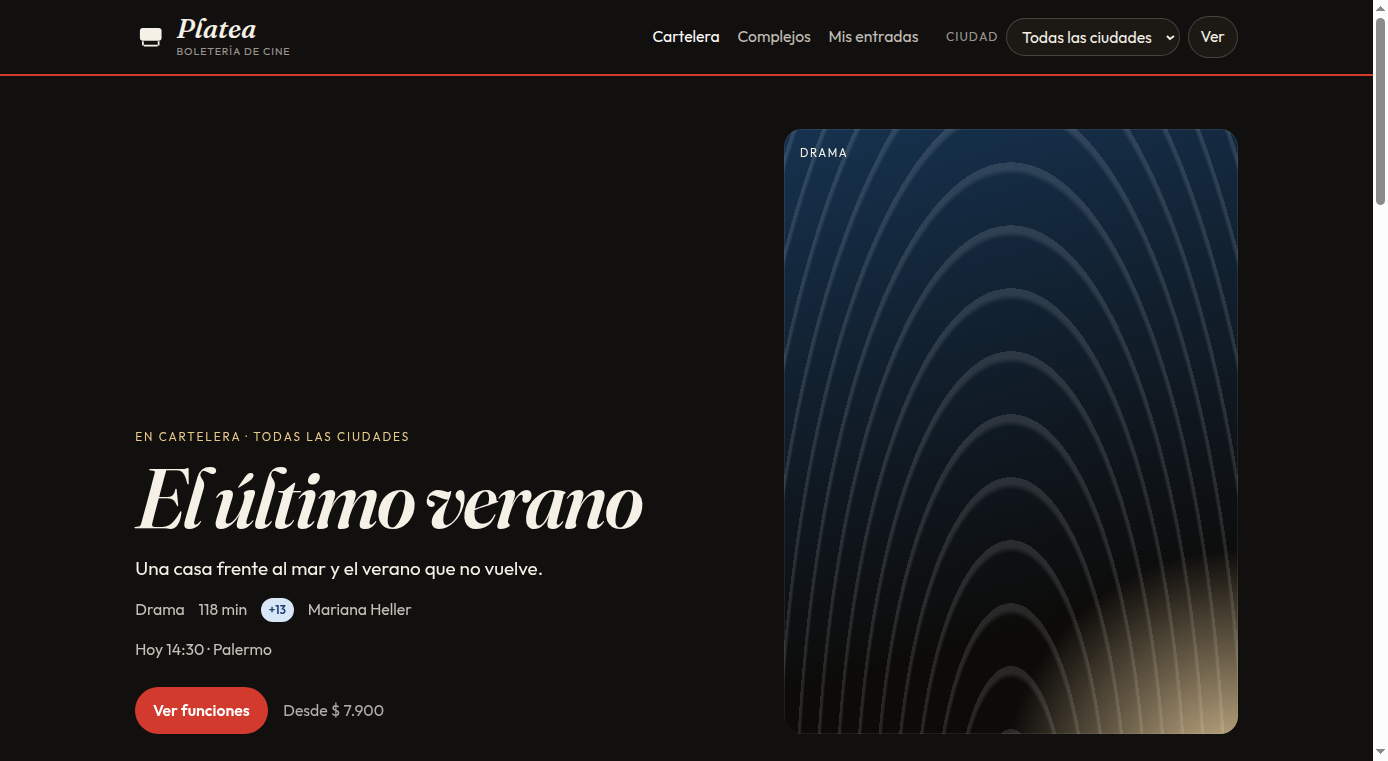
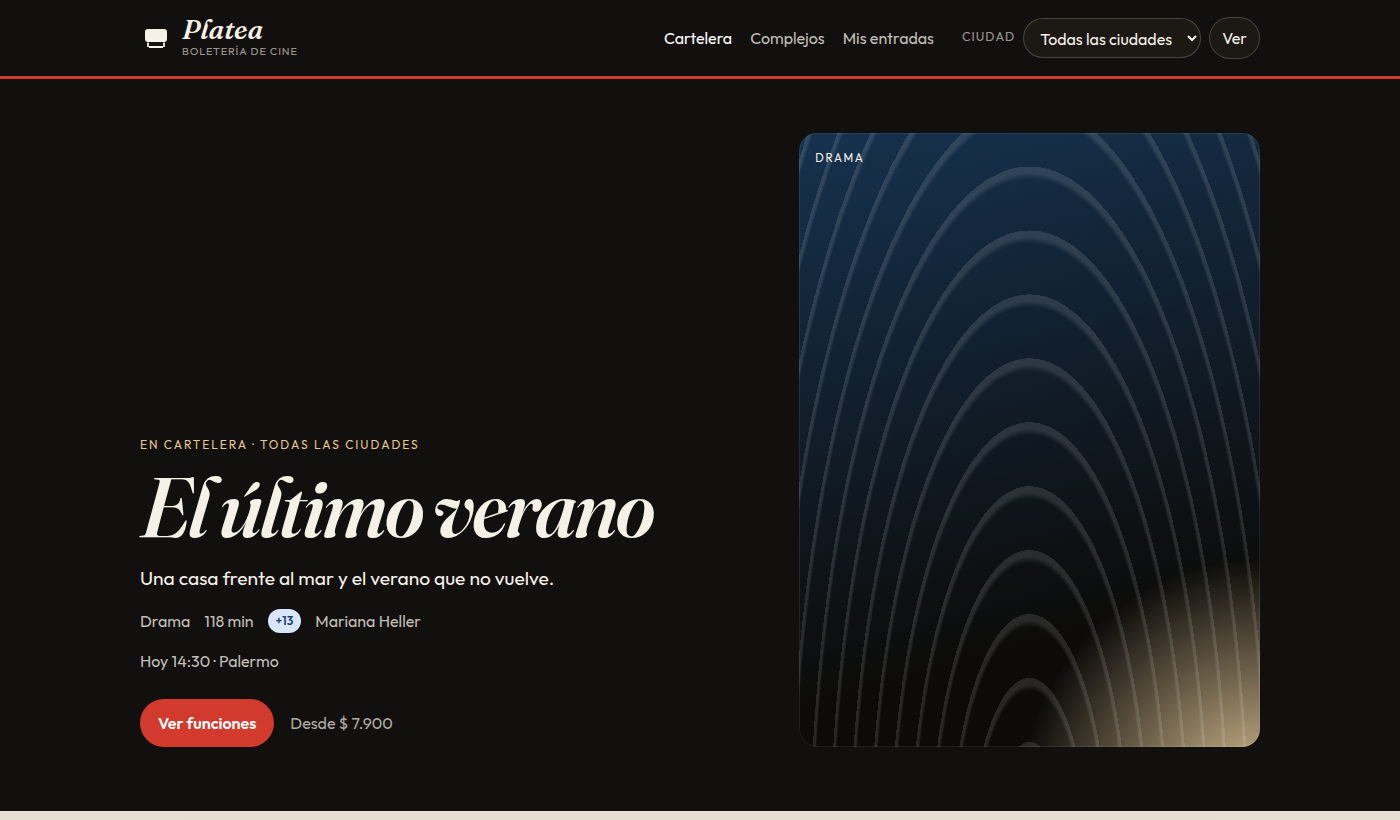
Rewrite the README in English for a recruiter reading.
Document the routes, pricing, and seat-hold design from the code, and refresh the screenshots from a local run of the billboard, seat map, and ticket. Ignore OS junk and log files.

Changed region(s): [[0.0, 0.0, 1.0, 1.0], [0.0929, 0.5138, 0.4647, 0.816], [0.4647, 0.0302, 0.8984, 0.0604]]

diff --git a/README.md b/README.md
@@ -1,78 +1,234 @@
 # Platea
 
-Boletería de cine de demostración, hecha en Java con Spring Boot. Tiene cartelera, complejos en cuatro ciudades, funciones de los próximos días, mapa de butacas, reserva con cuenta regresiva y emisión de entradas con código propio.
+A demo cinema box office in Java and Spring Boot. The Spanish-language site lists six cinemas in four cities, holds seats for eight minutes, and issues a `PLT-` ticket after a simulated card payment.
 
-El pago es simulado. No se cobra nada y la tarjeta no se guarda: en la entrada quedan la marca y los últimos cuatro números.
+The charge is simulated. The only card data Platea stores is the brand and the last four digits.
 
-![Cartelera de Platea](docs/cartelera.png)
+[![Java 21](https://img.shields.io/badge/Java-21-437291?logo=openjdk&logoColor=white)](https://docs.oracle.com/en/java/javase/21/)
+[![Spring Boot 4.1.1](https://img.shields.io/badge/Spring%20Boot-4.1.1-6DB33F?logo=springboot&logoColor=white)](https://spring.io/projects/spring-boot)
+[![Thymeleaf 3.1.5](https://img.shields.io/badge/Thymeleaf-3.1.5-005F0F?logo=thymeleaf&logoColor=white)](https://www.thymeleaf.org/)
+[![H2 2.4.240](https://img.shields.io/badge/H2-2.4.240-174A74)](https://www.h2database.com/)
+[![Maven 3.10.0](https://img.shields.io/badge/Maven-3.10.0-C71A36?logo=apachemaven&logoColor=white)](https://maven.apache.org/)
+[![tests](https://github.com/iavicoliNicolas/boleteria-cine/actions/workflows/tests.yml/badge.svg)](https://github.com/iavicoliNicolas/boleteria-cine/actions/workflows/tests.yml)
 
-## Para qué sirve en un portfolio
+![Billboard, with the featured film El último verano](docs/cartelera.png)
 
-Es una aplicación web completa, de punta a punta, con las piezas que se esperan en un proyecto Java de muestra:
+The “Desde” amount on a card is the lowest base price in the six-day window, so on a weekend it can still show the Monday–Thursday price.
 
-- páginas server-side con Thymeleaf, pensadas para escritorio y celular
-- modelo persistido con JPA e H2, sin servicios externos
-- reserva de butacas en una transacción, con bloqueo pesimista de la función para que dos compras no se queden con el mismo asiento
-- validación del formulario y un pago simulado que rechaza tarjetas inválidas o terminadas en `0000`
-- tests del flujo de compra y de las reglas de precio, slug y tarjeta
+## Features
 
-Los datos de películas, complejos y funciones se cargan al arrancar. Cada reinicio vuelve a armar la cartelera.
+- Billboard for Buenos Aires, Córdoba, Rosario, and Mendoza, with search and a genre filter. The city choice is kept in the HTTP session.
+- Movie pages for the next six days, plus a **Próximamente** section for titles that are not on sale yet.
+- A page per cinema, with that complex’s showtimes for today and tomorrow.
+- Showtimes in 2D, 3D, IMAX, and 4DX, tagged subtitled, dubbed, or original language.
+- A seat map for up to eight seats. Premium seats in the middle of the room add $ 1.800.
+- An eight-minute hold tied to the browser session, with a countdown on the checkout page.
+- Simulated checkout. A card that fails the Luhn check, is expired, or ends in `0000` is declined, and the seats stay held so the buyer can retry.
+- A ticket coded `PLT-` followed by six characters, a barcode-style graphic drawn from that code, and a print view.
+- **Mis entradas** finds a purchase by email or by ticket code.
 
-## Qué se puede hacer
+Posters are CSS motifs painted from colors stored on each movie. Restarting the process rebuilds the billboard in an in-memory H2 database.
 
-- Filtrar la cartelera por ciudad (Buenos Aires, Córdoba, Rosario, Mendoza) y por género.
-- Ver la ficha de una película, los estrenos de **Próximamente** y la ficha de cada complejo.
-- Elegir una función en 2D, 3D, IMAX o 4DX y marcar hasta 8 butacas. Las preferenciales tienen un recargo.
-- Retener las butacas 8 minutos y pagar dentro de esa ventana.
-- Recibir una entrada `PLT-……` con código de barras.
-- Recuperarla en **Mis entradas** con el email de la compra o con el código.
+![Seat map for Órbitas at Platea Palermo](docs/butacas.png)
 
-Los complejos de la demo son Platea Palermo, Puerto y Belgrano (Buenos Aires), Nueva Córdoba, Rosario y Mendoza.
+![Issued ticket PLT-C8QPYC](docs/entrada.png)
 
-![Entrada emitida](docs/entrada.png)
+## Demo catalog
 
-## Stack
+Eleven original titles. Nine are on sale, and two are coming soon (`Viento norte`, 21 days after startup, and `El faro de Quequén`, 35 days after startup). The featured film is *El último verano*. Seeded ratings are ATP, +13, and +16.
 
-| Pieza | Uso |
+| Cinema | City | Neighborhood | Address | Auditoriums |
+| --- | --- | --- | --- | --- |
+| Platea Palermo | Buenos Aires | Palermo | Av. Santa Fe 3253 | Sala 1, Sala 2, Sala IMAX |
+| Platea Puerto | Buenos Aires | Puerto Madero | Juana Manso 980 | Sala 1, Sala 4DX, Sala 3 |
+| Platea Belgrano | Buenos Aires | Belgrano | Av. Cabildo 2120 | Sala 1, Sala 2 |
+| Platea Nueva Córdoba | Córdoba | Nueva Córdoba | Obispo Trejo 650 | Sala 1, Sala IMAX, Sala 3 |
+| Platea Rosario | Rosario | Centro | Córdoba 1340 | Sala 1, Sala 2 |
+| Platea Mendoza | Mendoza | Centro | Av. San Martín 845 | Sala 1, Sala 2 |
+
+The seeder repeats one daily schedule for six days: 306 showtimes, across 15 auditoriums. It marks part of each room sold so the map is not empty, and it leaves at least 10 seats free. The target occupancy is higher when the show is sooner, and a bit higher for *Nebulosa* and *Código Austral*.
+
+## Tech stack
+
+Versions below are the ones this build resolves.
+
+| Piece | Role |
 | --- | --- |
-| Java 21 | Lenguaje |
-| Spring Boot 4 | Aplicación web |
-| Spring MVC + Thymeleaf | Pantallas |
-| Spring Data JPA + Hibernate | Películas, funciones, butacas y compras |
-| Bean Validation | Formulario de pago |
-| H2 en memoria | Base de la demo |
-| JUnit 5 + MockMvc | Tests |
-| Maven Wrapper | Compilación sin instalar Maven |
+| Java 21 | Language |
+| Spring Boot 4.1.1 | Application and embedded Tomcat |
+| Spring MVC + Thymeleaf 3.1.5 | Server-rendered pages, locale `es-AR` |
+| Spring Data JPA + Hibernate 7.4.5.Final | Movies, showtimes, seats, and purchases |
+| Bean Validation | Checkout form |
+| H2 2.4.240 | In-memory database, created on startup and dropped on shutdown |
+| JUnit Jupiter, AssertJ, and MockMvc | Tests |
+| Maven 3.10.0 via the Wrapper | Build without a preinstalled Maven |
 
-## Requisitos
+The UI is one stylesheet (`platea.css`) and two scripts (`butacas.js`, `checkout.js`). Headlines use Fraunces and the UI uses Outfit, loaded from Google Fonts, with system-font fallbacks in the stylesheet.
 
-- Java 21
+## Architecture
 
-Maven no hace falta tenerlo instalado: el proyecto trae `./mvnw`.
+Pages go through MVC controllers. `CatalogService` builds the billboard, movie, cinema, and seat-map view models. `BookingService` holds seats and confirms a purchase. `CatalogSeeder` runs once on startup through `DataSeeder`.
 
-## Correr en local
+```mermaid
+flowchart TB
+  subgraph http [Controllers]
+    Home[HomeController]
+    Movie[MovieController]
+    Cinema[CinemaController]
+    Show[ShowtimeController]
+    Pay[CheckoutController]
+    Ticket[TicketController]
+  end
+  Advice[GlobalAdvice]
+  Catalog[CatalogService]
+  Booking[BookingService]
+  Cards[CardValidator]
+  Clean[HoldCleaner]
+  Seed[CatalogSeeder]
+  DB[(H2 mem:platea)]
+  Advice --> http
+  http --> Catalog
+  http --> Booking
+  Catalog --> Clean
+  Booking --> Clean
+  Booking --> Cards
+  Catalog --> DB
+  Booking --> DB
+  Seed --> DB
+```
+
+A purchase:
+
+```mermaid
+sequenceDiagram
+  participant Browser
+  participant Show as ShowtimeController
+  participant Pay as CheckoutController
+  participant Book as BookingService
+  participant DB as H2
+  Browser->>Show: POST /funciones/{id}/retener
+  Show->>Book: hold
+  Book->>DB: lock showtime, insert HELD seats
+  Show-->>Browser: redirect /checkout
+  Browser->>Pay: POST /checkout
+  Pay->>Book: confirm
+  Book->>Book: CardValidator
+  Book->>DB: mark seats SOLD, save Booking
+  Pay-->>Browser: redirect /entradas/PLT-……
+```
+
+```mermaid
+erDiagram
+  CINEMA ||--|{ AUDITORIUM : has
+  MOVIE ||--|{ SHOWTIME : schedules
+  AUDITORIUM ||--|{ SHOWTIME : hosts
+  SHOWTIME ||--|{ SEAT_RESERVATION : reserves
+  BOOKING ||--|{ SEAT_RESERVATION : sells
+```
+
+## Project structure
+
+```
+src/main/java/ar/com/platea
+├── config          Clock in America/Argentina/Buenos_Aires, fixed es-AR locale
+├── domain          JPA entities and enums (movie, cinema, showtime, seat, booking)
+├── repo            Spring Data repositories, including the pessimistic showtime lock
+├── service         Seeding, catalog queries, pricing, seat layout, holds, and card checks
+├── view            Record view models for the templates
+└── web             MVC controllers and the checkout form
+src/main/resources
+├── templates       Thymeleaf pages and the shared header/footer
+├── static          CSS, seat-map script, checkout script, favicon
+├── application.properties
+└── banner.txt
+src/test/java/ar/com/platea
+├── PlateaLogicTest
+└── BookingFlowTest
+```
+
+## Run locally
+
+Java 21 is the only requirement. `./mvnw` downloads Maven 3.10.0 on first use.
 
 ```bash
 ./mvnw spring-boot:run
 ```
 
-Abrí [http://localhost:8741](http://localhost:8741).
+Open [http://localhost:8741](http://localhost:8741).
 
-El puerto se puede cambiar con la variable `PORT`:
+The listen port is `PORT`, defaulting to 8741. The process binds `0.0.0.0`.
 
 ```bash
 PORT=8080 ./mvnw spring-boot:run
 ```
 
-## Comprar una entrada de prueba
+Thymeleaf template caching follows `THYMELEAF_CACHE` (off by default, on in the container). The session lasts 30 minutes. The session cookie is `HttpOnly`. Error responses omit the exception message, binding errors, and the stack trace.
 
-1. Elegí una película y una función que no esté agotada.
-2. Marcá las butacas y continuá. Quedan retenidas 8 minutos.
-3. En el pago usá `4242 4242 4242 4242`, un vencimiento futuro y cualquier CVV de 3 o 4 dígitos.
-4. Un número que termina en `0000` (por ejemplo `4000 0000 0002 0000`) simula un rechazo del banco. Las butacas siguen reservadas para reintentar.
-5. La entrada queda en **Mis entradas**, buscable por email o por el código `PLT-……`.
+H2 uses the in-memory URL `jdbc:h2:mem:platea`, user `sa`, and an empty password. The H2 console is not enabled. `ddl-auto` is `create-drop`, so every start loads a fresh catalog and drops the previous purchases.
 
-El precio de base depende del formato y sube viernes, sábado y domingo. Una preferencial suma $ 1.800.
+### Try a purchase
+
+1. Open a movie and a showtime that is not sold out.
+2. Select up to eight seats and continue. They are held for eight minutes.
+3. Pay with `4242 4242 4242 4242`, a future expiry such as `12/30`, and any 3- or 4-digit CVV. The name needs at least three characters. The phone is optional.
+4. A number that passes the Luhn check and ends in `0000`, such as `4000000000020000`, is declined with “El banco rechazó el pago”. The hold remains.
+5. The ticket is at `/entradas/PLT-……` and under **Mis entradas**, by email or by code.
+
+Prices are Argentine pesos, grouped with a dot (`$ 7.900`). The base price depends on format and on the day of the show. Friday, Saturday, and Sunday use the higher column. A premium seat adds $ 1.800 on top.
+
+| Format | Monday–Thursday | Friday–Sunday |
+| --- | ---: | ---: |
+| 2D | $ 7.900 | $ 8.900 |
+| 3D | $ 9.900 | $ 10.900 |
+| IMAX | $ 13.900 | $ 15.200 |
+| 4DX | $ 15.900 | $ 17.200 |
+| Premium seat | + $ 1.800 | + $ 1.800 |
+
+The “Desde” price on a movie card is the lowest base price among that film’s showtimes in the six-day window.
+
+## HTTP routes
+
+These routes return HTML pages.
+
+| Method | Path | Purpose |
+| --- | --- | --- |
+| `GET` | `/` | Billboard. `q` searches title, director, genre, and cast, ignoring accents. `genero` is an enum name such as `ANIMACION`. `ciudad` sets or, when empty, clears the session city. |
+| `GET` | `/peliculas/{slug}` | Movie and showtimes. `fecha` is an ISO date inside the six-day window. |
+| `GET` | `/complejos` | Cinemas in the active city, or all six when no city is selected. |
+| `GET` | `/complejos/{slug}` | One cinema and its showtimes for today and tomorrow. |
+| `GET` | `/funciones/{id}` | Seat map. Seats already held by this session are marked as yours. |
+| `POST` | `/funciones/{id}/retener` | Hold the repeated field `butacas` (seat codes such as `A1`). Redirects to `/checkout`, or back to the map with a flash error. |
+| `GET` | `/checkout` | Payment form. With no live hold, the heading is “No tenés butacas reservadas”. |
+| `POST` | `/checkout` | Validate the form, run the simulated payment, and redirect to the ticket. |
+| `POST` | `/checkout/soltar` | Drop this session’s hold. `funcion` sends the browser back to that seat map. |
+| `GET` | `/entradas/{code}` | Ticket. Unknown codes answer 404. |
+| `GET` | `/mis-entradas` | Lookup. `q` containing `@` searches by email. Any other value is treated as a ticket code and redirects when it matches. |
+
+```bash
+curl -s -o /dev/null -w "%{http_code}\n" http://localhost:8741/
+curl -s -o /dev/null -w "%{http_code}\n" http://localhost:8741/peliculas/el-ultimo-verano
+curl -s -o /dev/null -w "%{http_code}\n" "http://localhost:8741/?ciudad=Mendoza"
+```
+
+Hold two seats, then pay. `ID` is the showtime id from a movie or seat-map URL. Seat codes that the seeder already marked sold will be rejected.
+
+```bash
+curl -c cookies.txt -b cookies.txt -D - -o /dev/null \
+  -X POST --data-urlencode 'butacas=A1' --data-urlencode 'butacas=A2' \
+  "http://localhost:8741/funciones/${ID}/retener"
+
+curl -c cookies.txt -b cookies.txt -D - -o /dev/null \
+  -X POST \
+  --data-urlencode 'nombre=Ana Ruiz' \
+  --data-urlencode 'email=ana.ruiz@platea.test' \
+  --data-urlencode 'tarjeta=4242 4242 4242 4242' \
+  --data-urlencode 'vencimiento=12/30' \
+  --data-urlencode 'cvv=123' \
+  --data-urlencode 'titular=ANA RUIZ' \
+  http://localhost:8741/checkout
+```
+
+A successful payment responds `302` with `Location: /entradas/PLT-……`. The ticket HTML includes the brand and the last four digits, and it does not include the full card number.
 
 ## Tests
 
@@ -80,83 +236,54 @@ El precio de base depende del formato y sube viernes, sábado y domingo. Una pre
 ./mvnw test
 ```
 
-`PlateaLogicTest` cubre el formato de precios, los slugs, el algoritmo de Luhn y el recargo de fin de semana. `BookingFlowTest` recorre la cartelera, retiene butacas, emite la entrada, rechaza la tarjeta terminada en ceros y no deja vender dos veces el mismo asiento.
+`PlateaLogicTest` checks peso formatting, accent-free slugs, weekday and weekend prices, which seats are premium, the Luhn acceptance of `4242…4242`, and rejection of an expired card and of a card ending in `0000`.
 
-En GitHub, el workflow `.github/workflows/tests.yml` corre esa suite en cada push.
+`BookingFlowTest` loads the full application and, through MockMvc, checks the billboard, city and genre filters, a coming-soon title, a missing movie (404), a hold, a ticket, email and code lookup, a declined card that keeps the hold, and a second session that cannot take a seat the first session already holds.
 
-## Cómo está armada
+[`.github/workflows/tests.yml`](.github/workflows/tests.yml) runs `./mvnw -B test` on Ubuntu with Temurin 21 for every push and pull request.
 
-```
-src/main/java/ar/com/platea
-├── domain        Película, complejo, sala, función, reserva y compra
-├── repo          Spring Data JPA
-├── service       Cartelera, precios, layout de sala, reserva y pago
-├── view          Datos que consumen las pantallas
-└── web           Controladores MVC
-src/main/resources
-├── templates     Thymeleaf
-└── static        CSS y el mapa de butacas
-```
+## Container
 
-El recorrido de una compra:
-
-1. `ShowtimeController` recibe las butacas elegidas.
-2. `BookingService` bloquea la función (`PESSIMISTIC_WRITE`), suelta reservas vencidas y crea un hold de 8 minutos atado a la sesión HTTP.
-3. El checkout valida nombre, email y tarjeta. `CardValidator` aplica Luhn, vencimiento y la regla del `0000`.
-4. Si el pago entra, las butacas pasan a vendidas y se emite un `Booking` con código `PLT-` de 6 caracteres.
-5. `TicketController` muestra la entrada y la búsqueda de **Mis entradas**.
-
-`CatalogSeeder` arma 11 películas (dos todavía sin estrenar), 6 complejos y las funciones de los próximos días, con parte de la sala ya ocupada para que el mapa no arranque vacío.
-
-## Publicar el código en GitHub
-
-Creá un repositorio público vacío, sin README, para que no choque con este historial. Después, desde esta carpeta:
+The root `Dockerfile` is a two-stage build: Temurin 21 JDK packages the jar with `./mvnw -B -DskipTests package`, and Temurin 21 JRE runs it. The process user is `platea` (uid 10001). The image sets `PORT=8741`, `THYMELEAF_CACHE=true`, and `JAVA_TOOL_OPTIONS=-XX:MaxRAMPercentage=75`.
 
 ```bash
-git remote add github https://github.com/TU-USUARIO/platea.git
-git push -u github main
+docker build -t platea .
+docker run --rm -p 8741:8741 platea
 ```
 
-Conviene que el repositorio se llame `platea` y que la descripción sea corta, por ejemplo: «Boletería de cine de demostración en Java y Spring Boot».
+[`render.yaml`](render.yaml) declares a free Docker web service named `platea`, with health check `/` and `THYMELEAF_CACHE=true`. Any host that runs this image can set `PORT`; the app reads it in `application.properties`.
 
-## Hostear una demo gratis
+Because the database is in memory and the catalog is seeded on startup, a process that stops or sleeps drops the demo purchases and builds the billboard again. Holds are stored on the HTTP session, so they belong to a single process.
 
-GitHub Pages publica sitios estáticos. Esta aplicación es un proceso Java y necesita un servidor. La forma gratuita de mostrar una demo en un portfolio es un contenedor que escala a cero o se duerme cuando nadie entra.
+## Technical notes
 
-El `Dockerfile` de la raíz deja la app escuchando en la variable `PORT`, que es lo que usan estos servicios. La imagen corre con un usuario sin privilegios.
+- `ShowtimeRepository.lockById` takes a `PESSIMISTIC_WRITE` lock on the showtime row before inserting a hold. `seat_reservations` also has a unique constraint on `(showtime_id, seat_code)`, so two buyers cannot persist the same seat.
+- Holds last eight minutes (`BookingService.HOLD_MINUTES`). `HoldCleaner` deletes expired `HELD` rows in a new transaction when a catalog or booking operation runs.
+- Starting a new hold deletes that session’s previous `HELD` seats first, so a second selection replaces the first.
+- A seat is premium when the room has at least five rows, the row is outside the first two and the last two, and the seat is neither the first nor the last of its half of the row. The browser disables further checkboxes at eight seats; the server rejects a larger selection as well.
+- Ticket codes use `PLT-` plus six characters from an alphabet that omits `I`, `O`, `0`, and `1`, and they are checked for uniqueness before insert. The graphic on the stub is drawn from those characters for display.
+- `CardValidator` requires 13 to 19 digits and a valid Luhn checksum. A number that ends in `0000` is declined next. The expiry must be `MM/YY` or `MM/YYYY` and not before the current month, and the CVV must be 3 or 4 digits. Brands are American Express (`34`/`37`), Visa (`4`), Mastercard (`5` or `2`), and `Tarjeta` otherwise.
+- The persisted payment fields are `cardBrand` and `cardLast4`. The log line for an issued ticket records the code and the email.
+- `spring.jpa.open-in-view` is `false`. Showtime queries fetch the movie, auditorium, and cinema in one select. Booking lookups use an entity graph so the ticket page does not lazy-load outside the transaction.
+- Dates and the application clock use `America/Argentina/Buenos_Aires`. Money and copy on the pages are Spanish (`es-AR`).
+- Slugs are lowercase, ASCII, and hyphenated (`Órbitas` becomes `orbitas`). The same folding is used by search.
 
-### Render
+## What this demo leaves out
 
-El plan gratuito de Render alcanza para una demo. El servicio se duerme tras un rato sin visitas y la primera carga después de eso tarda, porque vuelve a arrancar Java y a sembrar la cartelera.
+Accounts, email delivery, a real payment processor, a durable database, and more than one application instance. The goal is a complete purchase that can be cloned and run with Java and Spring Boot.
 
-1. Subí el código a GitHub.
-2. En [render.com](https://render.com) creá un **Blueprint** y elegí este repositorio. `render.yaml` ya declara el servicio web. Si el blueprint rechaza el plan free, creá un Web Service a mano con runtime Docker y la instancia gratuita.
-3. Cuando termine el build, Render muestra una URL pública `https://platea-….onrender.com`.
+## Credits
 
-Si el plan free de la cuenta ya no ofrece instancias, o el arranque se queda sin memoria, el camino siguiente es Cloud Run con 1 GiB.
+Nicolás Iavicoli Dulcet ([@iavicoliNicolas](https://github.com/iavicoliNicolas)).
 
-### Google Cloud Run
+In git history, `Initialize project` is authored by nicolas iavicoli. The commits that add the application and the earlier README list Cursor Agent as author and nicolaseliavicoli as co-author.
 
-Cloud Run tiene una cuota mensual gratuita y la instancia baja a cero cuando no hay tráfico. Hace falta un proyecto de Google Cloud con facturación activada. Con visitas ocasionales de un portfolio el uso se mantiene dentro de esa cuota, siempre que el mínimo de instancias quede en cero.
+## Resumen en español
+
+Platea es una boletería de cine de demostración hecha en Java 21 y Spring Boot 4.1.1. La interfaz está en español. Hay cartelera en Buenos Aires, Córdoba, Rosario y Mendoza, seis complejos, funciones en 2D, 3D, IMAX y 4DX, un mapa de butacas, una reserva de ocho minutos y un pago simulado que emite una entrada `PLT-`. No se cobra nada: de la tarjeta se guardan la marca y los últimos cuatro números.
 
 ```bash
-gcloud run deploy platea \
-  --source . \
-  --region southamerica-east1 \
-  --allow-unauthenticated \
-  --memory 1Gi \
-  --min-instances 0
+./mvnw spring-boot:run
 ```
 
-`southamerica-east1` es São Paulo, la región más cercana para una demo pensada desde Argentina.
-
-### Qué esperar de la demo hosteada
-
-- La base es H2 en memoria. Cada vez que el proceso se duerme o se reinicia, las compras de prueba desaparecen y la cartelera se vuelve a cargar.
-- Hay una sola instancia. Las reservas viven en la sesión de quien está comprando.
-- El arranque en frío puede tardar cerca de un minuto en el plan que se duerme.
-- No reemplaza un cine real: no hay cobro, mails ni usuarios registrados.
-
-## Límites a propósito
-
-Quedó afuera todo lo que una boletería de producción necesitaría y una muestra no tiene que simular: cuentas de espectadores, mail de la entrada, pasarela de pago, base durable y más de una instancia. El objetivo es que se pueda clonar, correr y recorrer una compra completa con Java y Spring Boot.
+Abrí [http://localhost:8741](http://localhost:8741). Para probar el pago usá `4242 4242 4242 4242`, un vencimiento futuro (por ejemplo `12/30`) y un CVV de 3 o 4 dígitos. Una tarjeta que termina en `0000` simula un rechazo del banco y deja las butacas retenidas. Los datos viven en H2 en memoria y se vuelven a cargar en cada arranque. `./mvnw test` corre la suite.
